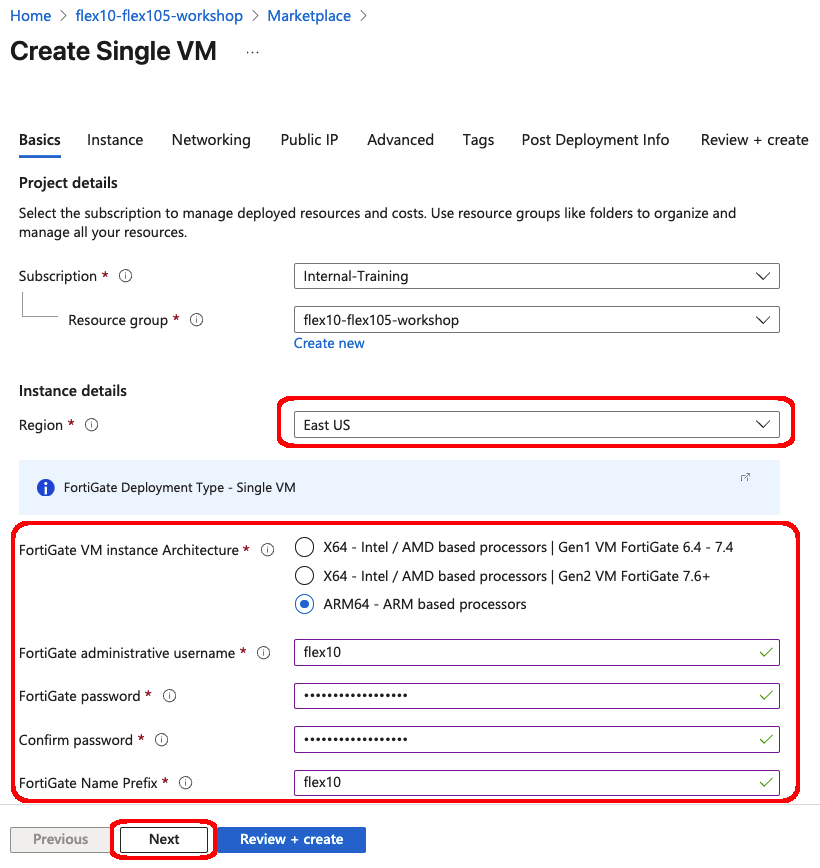
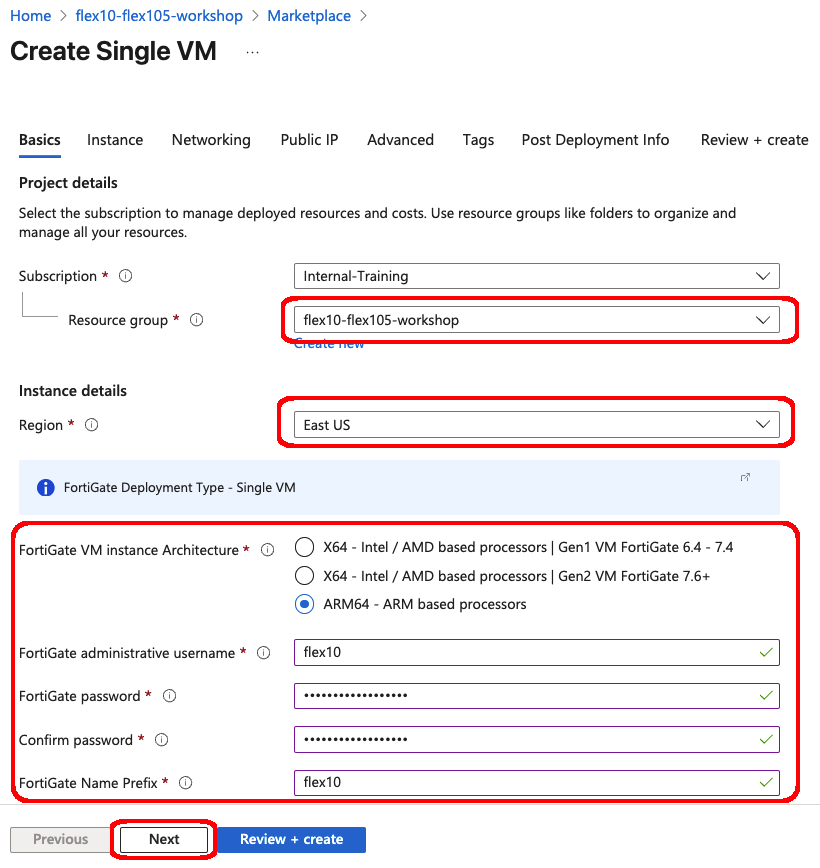
in workshop fixes

Changed region(s): [[0.3354, 0.3422, 0.9756, 0.4044]]

diff --git a/content/03-hands-on-lab/flex-webui/_index.md b/content/03-hands-on-lab/flex-webui/_index.md
@@ -89,6 +89,8 @@ Review the details of your entitlement and click **Submit** {{< figure src="enti
 
 {{% tab title="Entitlement Success" %}}
 You'll see the entitlement successfully created. Serial Number for future reference. {{< figure src="entitle-success.png" alt="Entitlement Success" >}}
+
+Click on **List** to go back to the Entitlement Listing and retrieve the Entitlement Token
 {{% /tab %}}
 
 {{% tab title="License File Token" %}}
@@ -134,6 +136,7 @@ Use the **flexXX** username you've been assigned. Replace **[XX]** with your spe
      - **FortiGate administrative username**: `flex[XX]`
      - **FortiGate password**/**Confirm password**:  `FortinetAzure2025!`
      - **Fortigate Name Prefix**:  `flex[XX]`
+     - **Resource Group**: `flex[XX]-flex104-workshop`
  - Select **Next**.
 
  {{< figure src="createVM-basic.png" alt="VM Creation Basics" >}}
@@ -208,7 +211,7 @@ You will see the matching SN, with Valid License, and the number of vCPU's allow
 
 {{< /tabs >}}
 
-### Step 6: Update the Flex Config & Entitlement to add Additional new vCPU count
+### Step 5: Update the Flex Config & Entitlement to add Additional new vCPU count
 Next, we'll update the FortiFlex configuration to increase the licensed vCPU count.
 
 {{< tabs >}} 
@@ -226,27 +229,20 @@ Update the number of CPU's to **4** and click **Next** until you reach the revie
 Click **Submit** to save the changes
 
 You will see a warning message, and you should click to **Confirm** the changes. {{< figure src="flex-config-edit-confirm.png" alt="Edit Config Confirm" >}}
+
+The entitlement linked this configuration will automatically reflect the vCPU change.
 {{% /tab %}}
 
-{{% tab title="Confirm Entitlement Change"%}}
-The entitlement linked to this configuration will automatically reflect the vCPU change. Confirm via XYZ {{< figure src="entitle-check.png" alt="Check Entitlement" >}}
-{{% /tab %}}
 
 {{< /tabs >}}
 
-### Step 5: Double the vCPU on the Azure FortiGate VM
+### Step 6: Double the vCPU on the Azure FortiGate VM
 Now, we'll change the VM size in Azure to double the vCPU from 2 to 4.
 
 {{< tabs >}} 
 
-{{% tab title="Stop the VM" %}}
-On the VM Overview Page (where you got the Public IP address, click **Stop** to stop the FortiGate VM before resizing it. {{< figure src="azure-vm-stop.png" alt="Azure Stop VM" >}}
-
-Click **Yes** to confirm stopping the VM. {{< figure src="azure-vm-stop-confirm.png" alt="Azure Stop Confirm" >}}
-{{% /tab %}}
-
 {{% tab title="Resize the VM" %}}
-Once the VM is stopped, click on **Availability + scale** and then **Size**. Select a size that has 4 vCPUs (e.g., D4pds_v6) and click "Resize". {{< figure src="azure-vm-resize.png" alt="Azure Resize VM" >}}
+Go to the VM Overview Page and then on left side click on **Availability + scale** and then **Size**. Select a size that has 4 vCPUs (e.g., Standard D4ps V6) and click "Resize". {{< figure src="azure-vm-resize.png" alt="Azure Resize VM" >}}
 
 You'll see a confirmation message that the resize is in progress. This may take a few minutes. 
 
@@ -263,9 +259,8 @@ On the VM Overview Page, you can verify that the VM size has been updated to ref
 
 {{< /tabs >}}
 
-### Step 6: Add the additional CPU's to FortiGate
+### Step 7: Add the additional CPU's to FortiGate
 
-**THIS SECTION NEEDS WORK**
 
 Finally, log back into the FortiGate VM WebUI to verify that the license now reflects the updated vCPU count, and add the additional CPU's to the FortiGate configuration.
 
@@ -285,7 +280,7 @@ Copy the Public IP address. {{< figure src="azure-vm-Pubip.png" alt="VM Public I
   - You'll see the FortiGate Status Dashboard where the License will show 2/4 Allocated vCPU 
   - You can also verify the vCPU via CLI.
   - ```get system status```
-  - You will **2/4 vCPU**. {{< figure src="fgt-SYSTEM-STATUS-4vcpu.png" alt="FGT License Info 4vCPU" >}}
+  - You will **2/4 vCPU**. {{< figure src="vm-4cpu-lic.png" alt="FGT License Info 4vCPU" >}}
 {{% /tab %}}
    
 {{% tab title="Add CPU's to FGT" %}}
@@ -300,6 +295,6 @@ Then verify the CPU count again:
 ```bash
 get system status
 ```
-You should now see **4/4 vCPU** allocated. {{< figure src="fgt-SYSTEM-STATUS-4vcpu-added.png" alt="FGT License Info 4vCPU Added" >}}
+You should now see **4/4 vCPU** allocated. {{< figure src="vm-4-4-cpu-lic.png" alt="FGT License Info 4vCPU Added" >}}
 {{% /tab %}}
 {{< /tabs >}}

diff --git a/content/02-quickstart/setup-guide/_index.md b/content/02-quickstart/setup-guide/_index.md
@@ -38,9 +38,6 @@ Use the credentials provided in the email you got from **<fortinetsecdevops@gmai
 1. Click **Get started** on the 'Welcome to Microsoft Azure' page.
 1. Click **Skip** on the 'How do you plan to use Azure' page.
 1. Click **Skip** on the 'Now, let show you around Azure' page.
-1. Click on the **Home** link in the upper left corner.
-
-    {{< figure src="Azure-Home.png" alt="Azure Home" >}}
 
 {{% /tab %}}
 {{% tab title="Verify Resource Group" %}}
@@ -54,12 +51,9 @@ Use the credentials provided in the email you got from **<fortinetsecdevops@gmai
 {{% tab title="Open Cloud Shell" %}}
 1. Click the **Cloud Shell** icon in the top navigation bar and Select **Bash** as the shell type
 {{< figure src="cloudshell-06.png" alt="Azure Cloud Shell" >}}
-3. Wait for the Cloud Shell to initialize
 
-   
-{{% /tab %}}
+2. Wait for the Cloud Shell to initialize
 
-{{% tab title="Cloudshell storage" %}}
 * Next, you will see a "Getting started" page.
     * Select **Mount Storage Account**
     * Choose **Internal-Training** as the Storage account subscription
@@ -79,7 +73,7 @@ Use the credentials provided in the email you got from **<fortinetsecdevops@gmai
 * On the Select storage account screen (values in drop down)
   * choose **Internal-Training** as description
   * resource group will be **"student number"-flex105-workshop** 
-  * storage account name will be "student number" floolowed by some random numbers and letters
+  * storage account name will be "student number" followed by some random numbers and letters
   * File share will be **cloudshellshare**
   * Click **Select**
 

diff --git a/content/03-hands-on-lab/flex-api/_index.md b/content/03-hands-on-lab/flex-api/_index.md
@@ -37,7 +37,7 @@ The following steps should remain relatively consistent regardless of how you're
 
 {{< figure src="p-collect-vars.png" alt="Postman Collection Variables" caption="Postman Collection Variables" >}}
 {{% notice tip %}}
-In most situations, the only variables you'll need to modify are the api_user ane apu_password.  You will notice the access_tokens populate as you launch different API requests 
+In most situations, the only variables you'll need to modify are the api_user and api_password.  You will notice the access_tokens populate as you launch different API requests 
 {{% /notice %}}
 
 {{% /tab %}}
